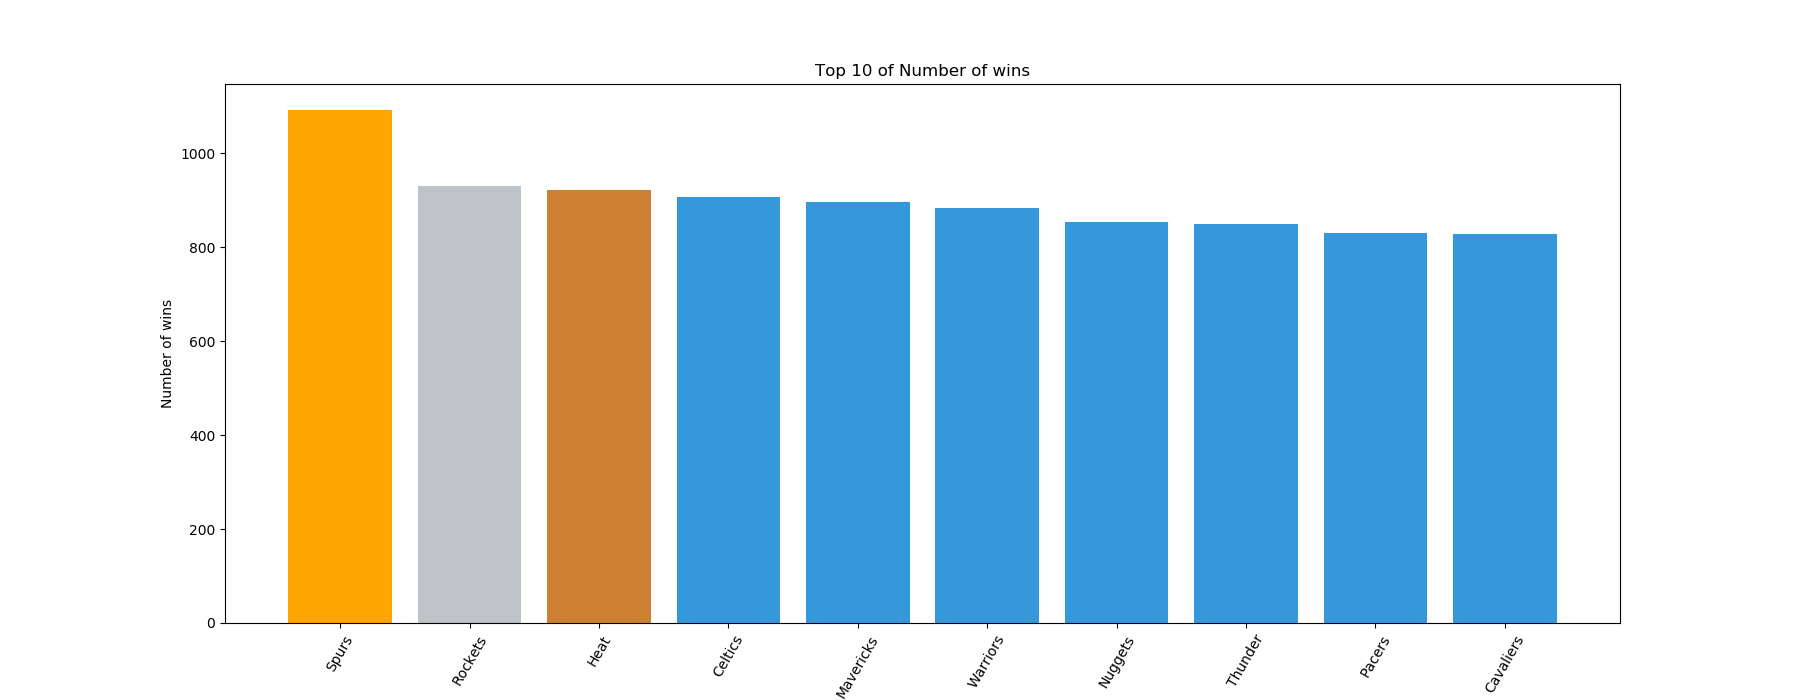
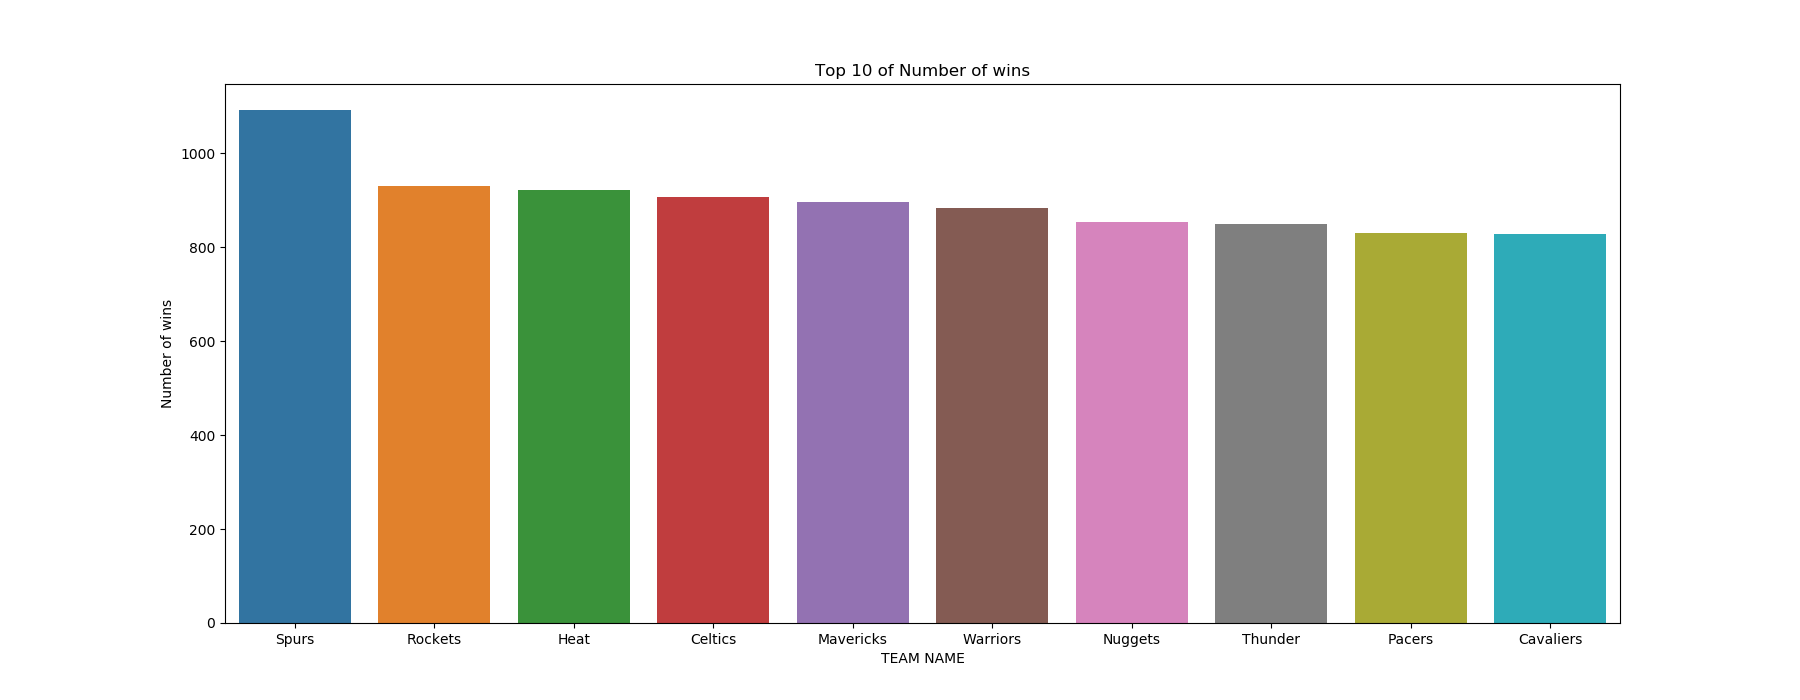
small changes

diff --git a/DataVisualization/team_stats.py b/DataVisualization/team_stats.py
@@ -47,15 +47,19 @@ def team_stats(stat, column, label_col=None, max_plot=5):
     else:
         x = top_df[label_col]
     gold, silver, bronze, other = ('#FFA400', '#bdc3c7', '#cd7f32', '#3498db')
-    colors = [gold if i == 0 else silver if i == 1 else bronze if i == 2 else other for i in range(0, len(top_df))]
+    # colors = [gold if i == 0 else silver if i == 1 else bronze if i == 2 else other for i in range(0, len(top_df))]
     fig, ax = plt.subplots(figsize=(18, 7))
-    ax.bar(x, height, color=colors)
-    plt.xticks(x, x, rotation=60)
+    # ax.bar(x, height, color=colors)
+    # plt.xticks(x, x, rotation=60)
     plt.xlabel(label_col)
     plt.ylabel(column)
     plt.title(f'Top {max_plot} of {column}')
+    # plt.show()
+    ax = sns.barplot(x, height)
+    # for i, (value, name) in enumerate(zip(team_cat, team_cat.columns)):
+    #     ax.text(value, i - .05, f'{value:,.0f}', size=10, ha='left', va='center')
+    ax.set(xlabel=label_col, ylabel=column)
     plt.show()
-
 
 # Maybe process some Team overall stats as wins,losses etc.
 # winning_teams = np.where(games['HOME_TEAM_WINS'] == 1, games['HOME_TEAM_ID'], games['VISITOR_TEAM_ID'])
@@ -103,4 +107,5 @@ def team_stats(stat, column, label_col=None, max_plot=5):
     # plt.show()
 
 team_stats(stat='HOME_TEAM_WINS', column='Number of wins', label_col='TEAM NAME', max_plot=10)
-# team_stats(high_scoring_teams, column='Overall Points', label_col='TEAM NAME', max_plot=10)
+# team_stats(stat='PTS_home', column='Overall Home Points', label_col='TEAM NAME', max_plot=10)
+# team_stats(stat='PTS_away', column='Overall Away Points', label_col='TEAM NAME', max_plot=10)

diff --git a/CHANGELOG.md b/CHANGELOG.md
@@ -115,3 +115,8 @@ team abbreviation at first and then maybe based on the season we wish. This task
 ### 2020-12-10
 * Made a separate file for correlations between categories. Updated the utilities.py with a few new functions too. 
 Experimentation on team_stats.py .
+  
+### 2020-12-11
+* Worked on my brief presentation that is coming next week (structure and flow). 
+
+* Beauty up our code files and improve some lines.
